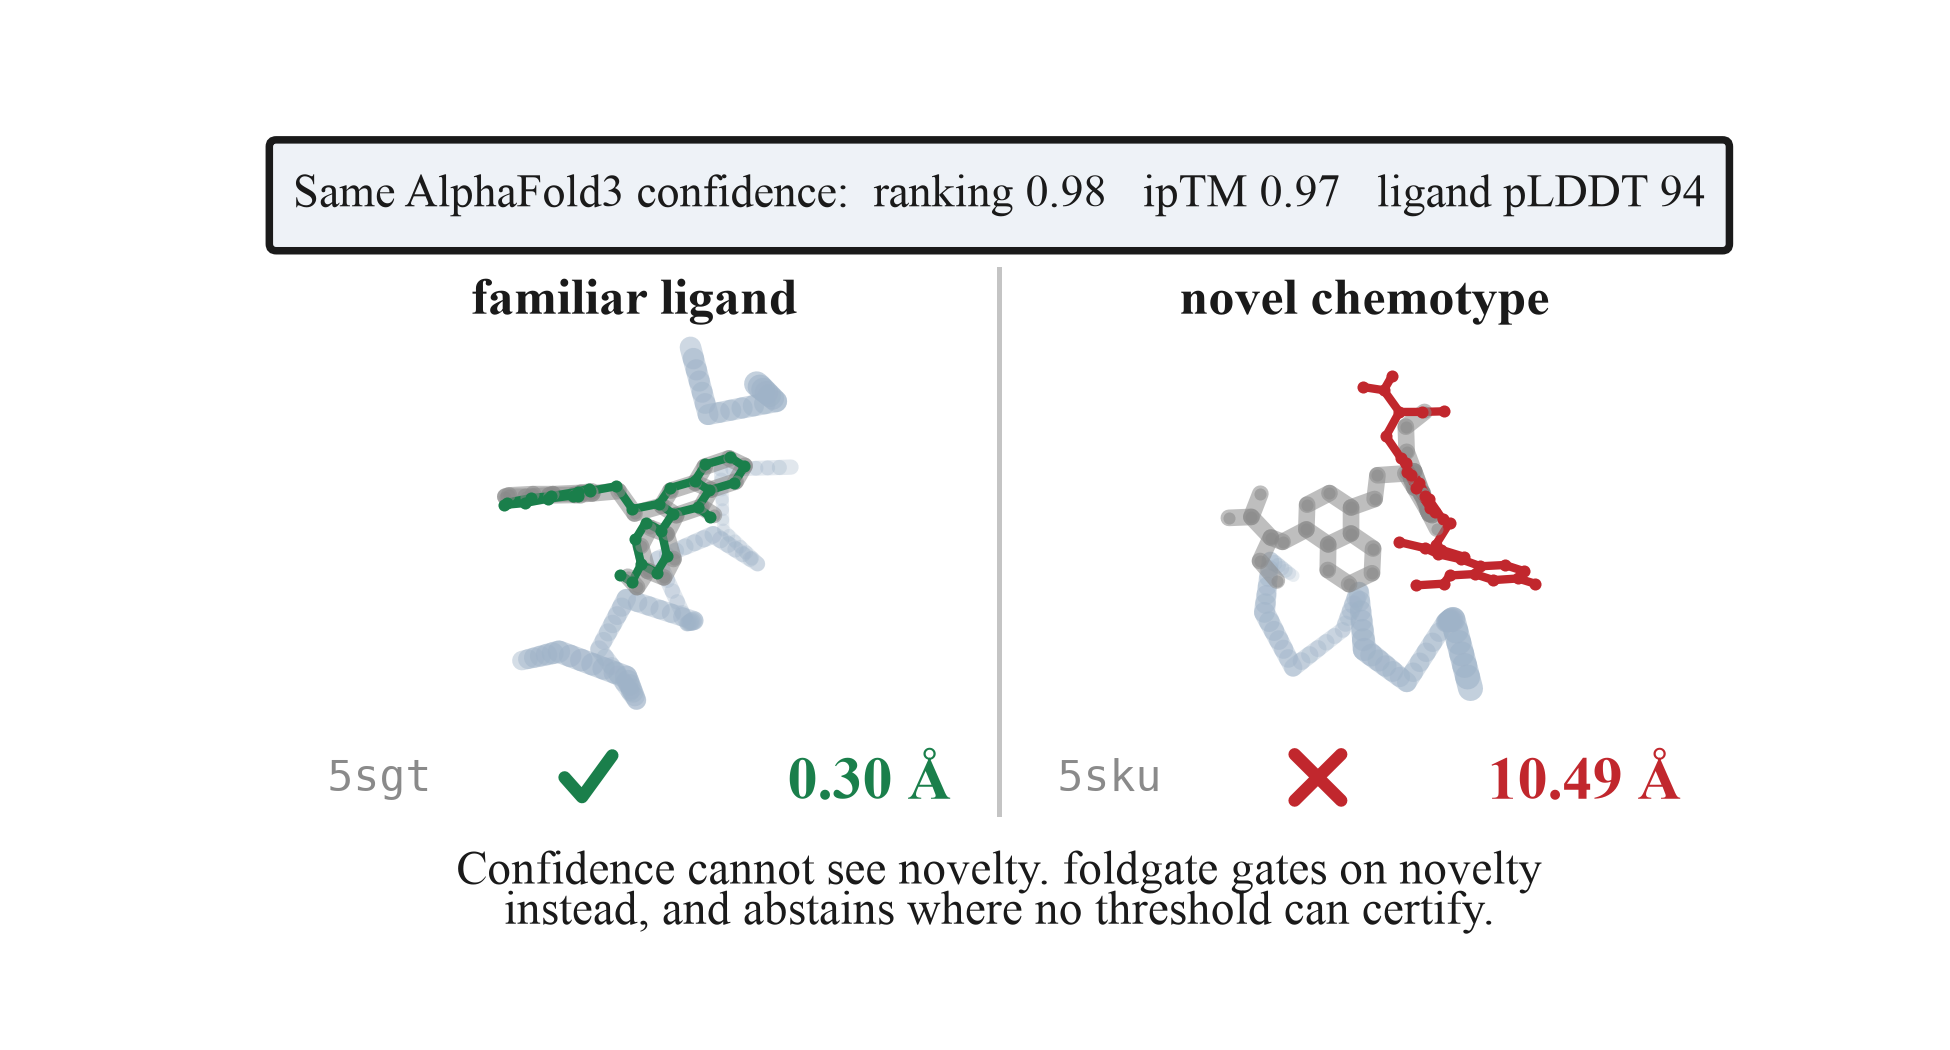
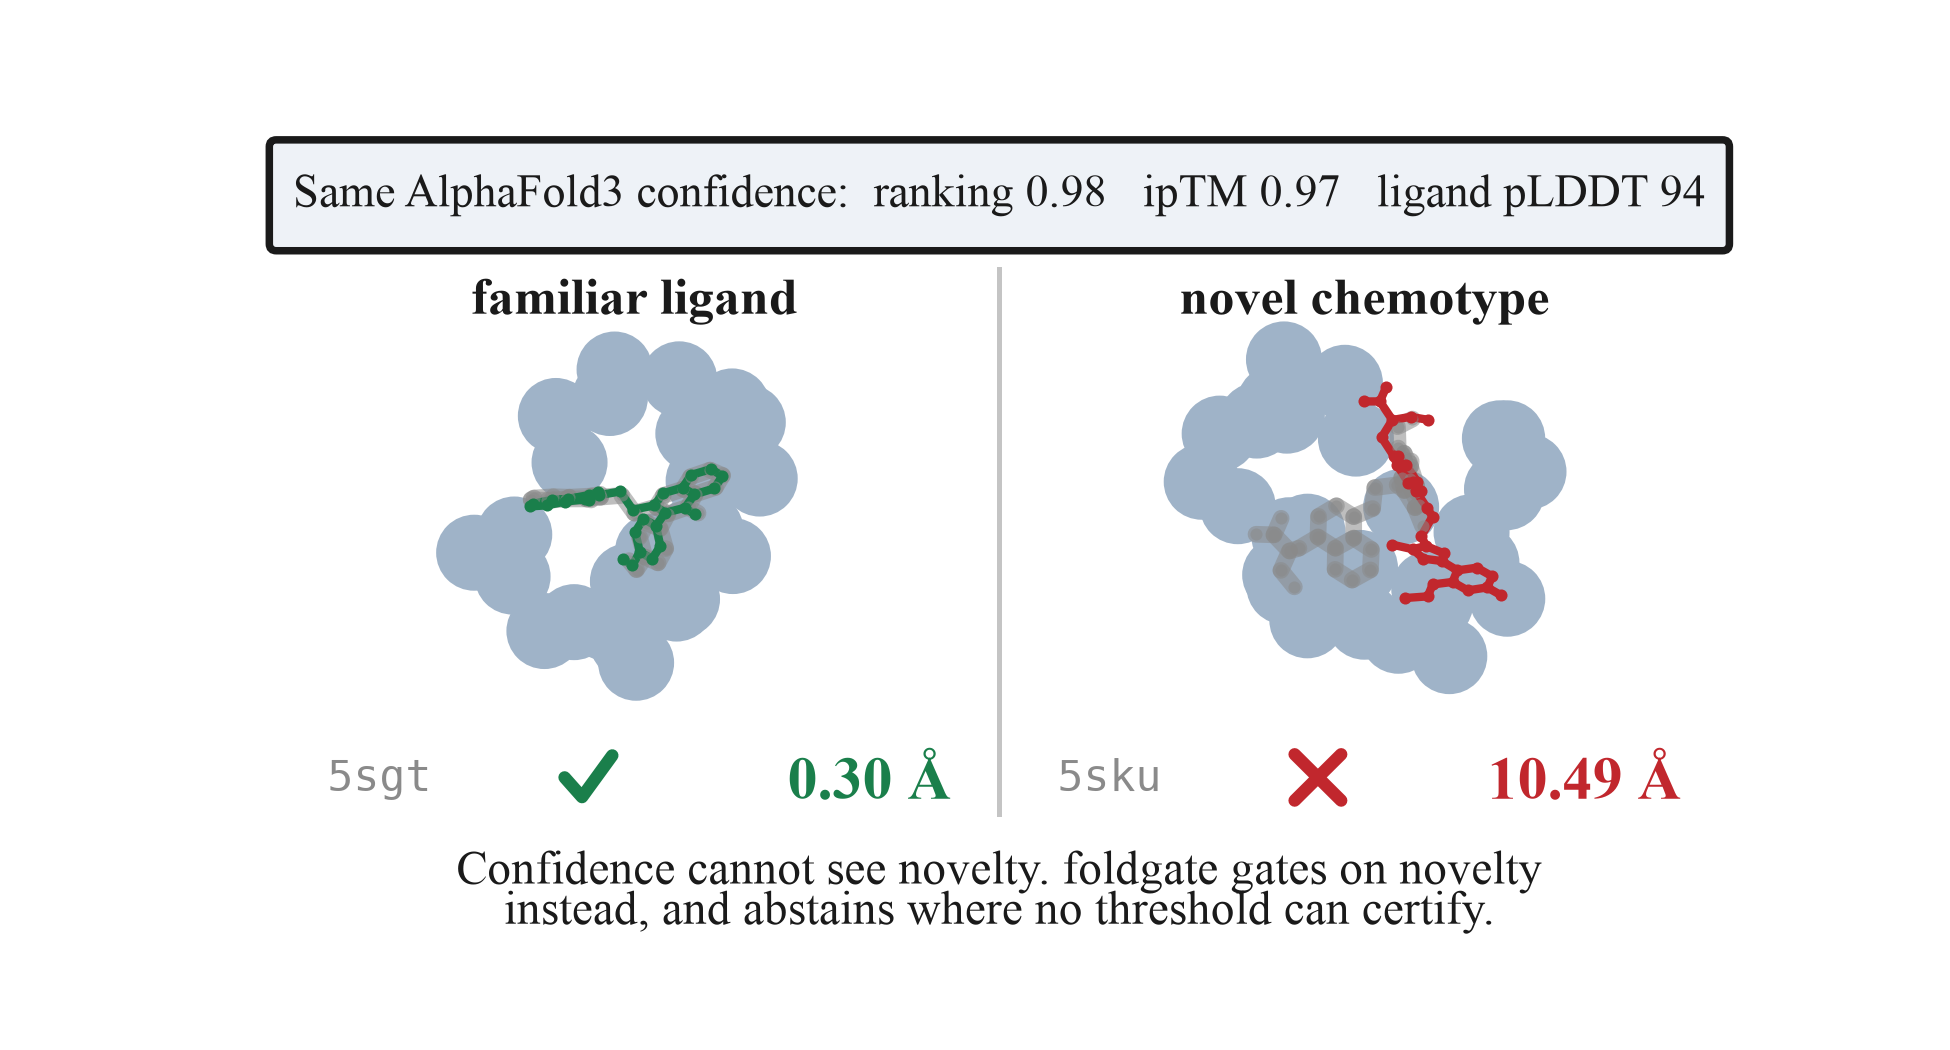
figures: soften the pocket envelope in TOC option E
Adds a layered translucent envelope behind the backbone trace so the site reads
as an enclosed pocket rather than floating strands, then tunes radius, disc size,
and scale so it fits between the panel title and the verdict row without
colliding with either.

The envelope is overlapping discs at CA positions, an impression of bulk rather
than a computed solvent-accessible surface. The docstring requires the caption
not to describe it as a surface.

Changed region(s): [[0.5846, 0.3048, 0.8, 0.6705], [0.2154, 0.3048, 0.4308, 0.6705]]

diff --git a/scripts/make_toc_graphic_e.py b/scripts/make_toc_graphic_e.py
@@ -30,7 +30,9 @@ COORDS = ROOT / "results" / "toc_struct_coords.json"
 GREEN, RED, GREY, DARK = "#1a7f4b", "#c1272d", "#8a8a8a", "#1a1a1a"
 TRACE = "#9fb3c8"
 BOND_MAX = 1.85     # heavy-atom bond cutoff, angstrom
-CONTEXT_R = 11.5    # how much receptor to draw around the site
+CONTEXT_R = 12.0    # how much backbone trace to draw around the site
+SURFACE_R = 12.0    # radius of the soft pocket-envelope impression
+SURF = "#9fb3c8"
 
 plt.rcParams.update({"font.family": "serif",
                      "font.serif": ["Times New Roman", "DejaVu Serif"]})
@@ -69,6 +71,30 @@ def smooth(run, factor=6):
     return np.column_stack([np.interp(tt, t, run[:, k]) for k in range(run.shape[1])])
 
 
+def draw_surface(ax, ca, c0, B, x0, y0, s):
+    """Soft blob behind the trace so the site reads as an enclosed pocket.
+
+    Overlapping translucent discs at CA positions approximate a molecular envelope.
+    It is an impression of bulk, not a computed solvent-accessible surface, and the
+    caption must not describe it as one.
+    """
+    dist = np.linalg.norm(ca - c0, axis=1)
+    keep = dist < SURFACE_R
+    if keep.sum() == 0:
+        return
+    xy, z = project(ca[keep], c0, B)
+    zr = (z - z.min()) / max(np.ptp(z), 1e-6)
+    fade = np.clip(1.0 - (dist[keep] - 4.0) / (SURFACE_R - 4.0), 0.12, 1.0)
+    for size, alpha in ((104.0, 0.016), (76.0, 0.018), (54.0, 0.020),
+                        (36.0, 0.022), (22.0, 0.024)):
+        ax.scatter(x0 + xy[:, 0] * s, y0 + xy[:, 1] * s,
+                   s=size * s / 0.040, c=SURF,
+                   alpha=None, linewidths=0, zorder=1,
+                   edgecolors="none",
+                   facecolors=[(0.58, 0.68, 0.79, alpha * f * (0.45 + 0.55 * r))
+                               for f, r in zip(fade, zr)])
+
+
 def draw_trace(ax, ca, c0, B, x0, y0, s):
     """CA trace near the site, drawn as contiguous smoothed runs and depth-shaded."""
     keep = np.linalg.norm(ca - c0, axis=1) < CONTEXT_R
@@ -100,7 +126,7 @@ def draw_trace(ax, ca, c0, B, x0, y0, s):
     depths = np.array(depths)
     rank = (depths - depths.min()) / max(np.ptp(depths), 1e-6)
     lc = LineCollection(segs, colors=[TRACE] * len(segs),
-                        linewidths=1.5 + 1.5 * rank, alpha=0.22 + 0.40 * rank,
+                        linewidths=1.3 + 1.3 * rank, alpha=0.30 + 0.45 * rank,
                         capstyle="round", joinstyle="round", zorder=2)
     ax.add_collection(lc)
 
@@ -129,6 +155,7 @@ def panel(ax, data, x0, title, pdbid, ok, scale):
     c0, B = frame(lig_c, lig_p, ca)
     y0 = 0.92
 
+    draw_surface(ax, ca, c0, B, x0, y0, scale)
     draw_trace(ax, ca, c0, B, x0, y0, scale)
     # Crystal pose sits underneath and slightly heavier, so its grey rim stays
     # visible even where the predicted pose lands on top of it.

diff --git a/scripts/prep_toc_structures.py b/scripts/prep_toc_structures.py
@@ -175,7 +175,7 @@ def main():
         "ranking": float(row.ranking_score),
         "iptm": float(row.iface_iptm),
         "plddt": float(row.ligand_plddt_mean),
-        "scale": 0.040,
+        "scale": 0.032,
         "note": ("AF3 reports the same confidence for 5sgt and 5sku to the precision "
                  "shown; poses superposed on pocket residues; validated against the "
                  "shipped BiSyRMSD."),